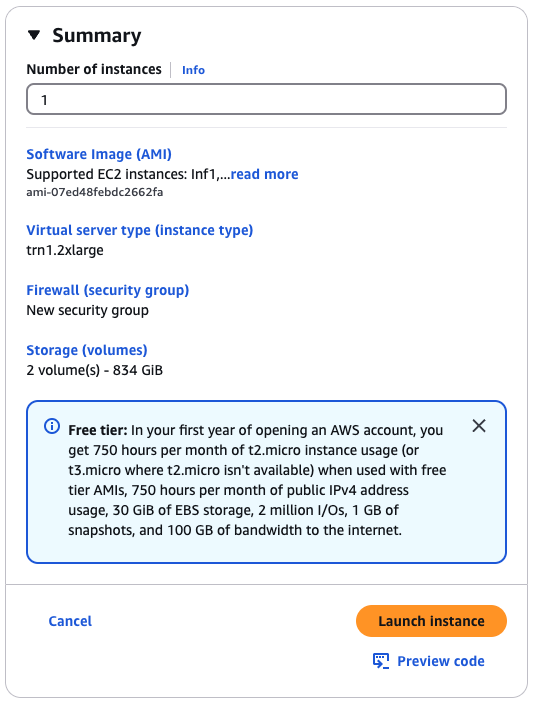
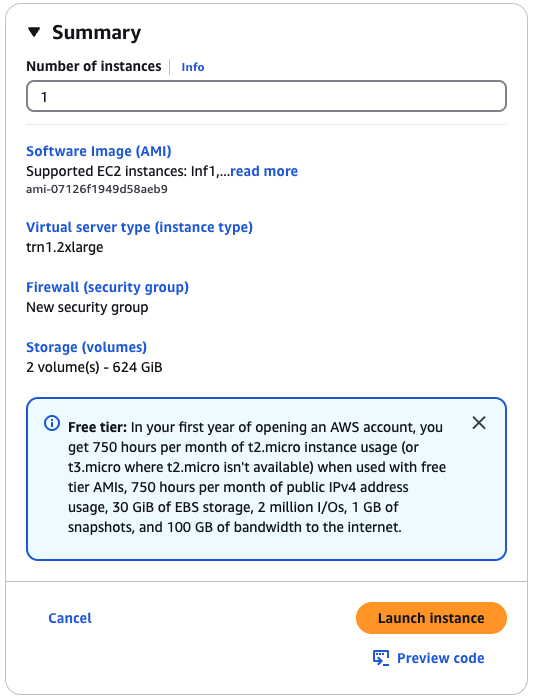
Updated AWS Setup instructions

diff --git a/AWS_SETUP.md b/AWS_SETUP.md
@@ -4,9 +4,9 @@ This document will help you launch a Tranium EC2 instance, configure SSH groups 
 ## Step 1: Launch Instance
 The first step is to launch a Tranium EC2 instance.
 
-1. First, log into [AWS Console us-west-2](https://us-west-2.console.aws.amazon.com/ec2/home?region=us-west-2#Home:).
-2. Click the orange "Launch Instance" button.
-3. Fill in the following information for your instance:
+1. First, log into [AWS Console us-east-2](https://us-east-2.console.aws.amazon.com/console/home?region=us-east-2#). You can click "Sign in using root user email" and sign in that way if needed.
+2. Go the [EC2 service](https://us-east-2.console.aws.amazon.com/ec2/home?region=us-east-2#Overview:) (Elastic Compute Cloud) and click the orange "Launch Instance" button.
+3. Fill in the following information for your instance. When you select the OS Type, you may get a pop up warning "Some of your current settings will be changed or removed if you proceed". You can ignore this and click the orange "Confirm changes" button.
     - Name: trn1_cs152
     - OS Type: Ubuntu
     - AMI: Deep Learning AMI Neuron (Ubuntu 22.04)
@@ -39,16 +39,33 @@ chmod 400 ~/.ssh/trn1_cs152.pem
   <img width="400" src="./img/aws_setup/3_key_security_group.png">
 </p>
 
-6. Finally, on the right side of the screen where it says "Summary",
+6. Scroll down further to the "Configure storage" settings, and set it to 150 GiB or gp3 storage.
+<p align="center">
+  <img width="400" src="./img/aws_setup/3_1_storage_settings.png">
+</p>
+
+
+7. Finally, on the right side of the screen where it says "Summary",
 confirm the information is correct, and launch your instance!
 
 <p align="center">
   <img width="400" src="./img/aws_setup/4_summary_launch.png">
 </p>
 
+### Potential Errors:
+
+#### Resource Request Validation:
+You may get an error saying your "Instance launch failed" due to request for accessing resources needing validation. This usually gets resolved within 5 minutes, and once you get the email saying that your request has been validated, click the orange button saying "Retry failed tasks."
+
+<p align="center">
+  <img width="400" src="./img/aws_setup/4_1_launch_fail.png">
+</p>
+
+#### vCPU Capacity Limit
+If you get an error saying your "Instance launch failed" due to requesting more vCPU capacity than your current vCPU limit of 0, make sure you fill out the [Google Form on Ed](https://edstem.org/us/courses/74390/discussion/6388697) to get permissions to launch Tranium instances. Email ronitnag04@berkeley.edu once you fill out the form, with the email subject "[CS152] SP25 Lab 6 AWS Google Form Submitted".
 
 ## Step 2: Setup Elastic IPs
-This next step is to set up an Elastic IP for your instance. By default, the IPv4 associated with an instance changes each time you launch it. By allocating an Elastic IP and associating it with the instance, we avoid having to change your ssh config each time. 
+This next step is to set up an Elastic IP for your instance. By default, the IPv4 associated with an instance changes each time you launch it. This is quite annoying since you will need to stop and start the instance constantly to save costs and credit usage. By allocating an Elastic IP and associating it with the instance, we avoid having to change your SSH config each time. 
 1. After clicking "Launch Instance" from the previous step, you should have landed back in the EC2 dashboard. Scroll down on the left side of the screen until you get to "Network & Security" settings, and click on Elastic IPs.
 2. Click the orange "Allocate Elastic IP address" button in the top-right corner of the screen
 3. Click the orange "Allocate" button. Now, you have an Elastic IP to use.
@@ -68,7 +85,7 @@ This next step is to set up an Elastic IP for your instance. By default, the IPv
 This step is to ensure you have SSH access from your local computer to the Trn1 EC2 instance.
 
 1. After clicking "Associate" from the previous step, you should have landed back in the Elastic IP dashboard. Scroll up on the left side of the screen until you get to "Instances" settings, and click on Instances.
-2. Click on the checkbox next to your trn1_cs152 instance. Scroll down to the "Details" section and copy the Public IPv4 DNS. It should look like this: ec2-###-###-###-###.us-west-2.compute.amazonaws.com.
+2. Click on the checkbox next to your trn1_cs152 instance. Scroll down to the "Details" section and copy the Public IPv4 DNS. It should look like this: `ec2-###-###-###-###.us-east-2.compute.amazonaws.com` (where the # symbols are numbers).
 
 <p align="center">
   <img width="400" src="./img/aws_setup/7_get_dns.png">
@@ -78,7 +95,7 @@ This step is to ensure you have SSH access from your local computer to the Trn1 
 3. Add the following SSH configuration to your local computer `.ssh/config`. Replace the HostName with the DNS you just copied.
 ```
 Host trn1_cs152
-    HostName ec2-###-###-###-###.us-west-2.compute.amazonaws.com
+    HostName ec2-###-###-###-###.us-east-2.compute.amazonaws.com
     User ubuntu
     IdentityFile ~/.ssh/trn1_cs152.pem
 ```
@@ -94,6 +111,13 @@ ssh trn1_cs152
 
 1. Go back to your instances dashboard on AWS console. Click on the "+" sign next to View Alarms for your trn1_cs152 instance.
 2. Configure your alarm as shown in the picture below, and click Create
+    - Toggle "Alarm Action" on, and Select "Stop"
+    - Group samples by: Maximum
+    - Type of data to sample: CPU Utilization
+    - Alarm when: <=
+    - Percent: 1
+    - Consecutive periods: 3
+    - Period: 5 minutes
 
 <p align="center">
   <img width="400" src="./img/aws_setup/8_alarm_details.png">
@@ -101,6 +125,9 @@ ssh trn1_cs152
 
 3. Search "Budgets" in the top search bar, and in the "Features" section, click on "Budgets". Click on the orange "Create a Budget" button. 
 4. Fill in the information to match the picture below, and enter your email for the "Email recipients" section.
+    - Select the "Monthly Cost Budget" template
+    - Set "Enter your budgeted amount ($)" to 50
+    - Enter your email in the "Email recipients" box
 
 <p align="center">
   <img width="400" src="./img/aws_setup/9_budget_details.png">
